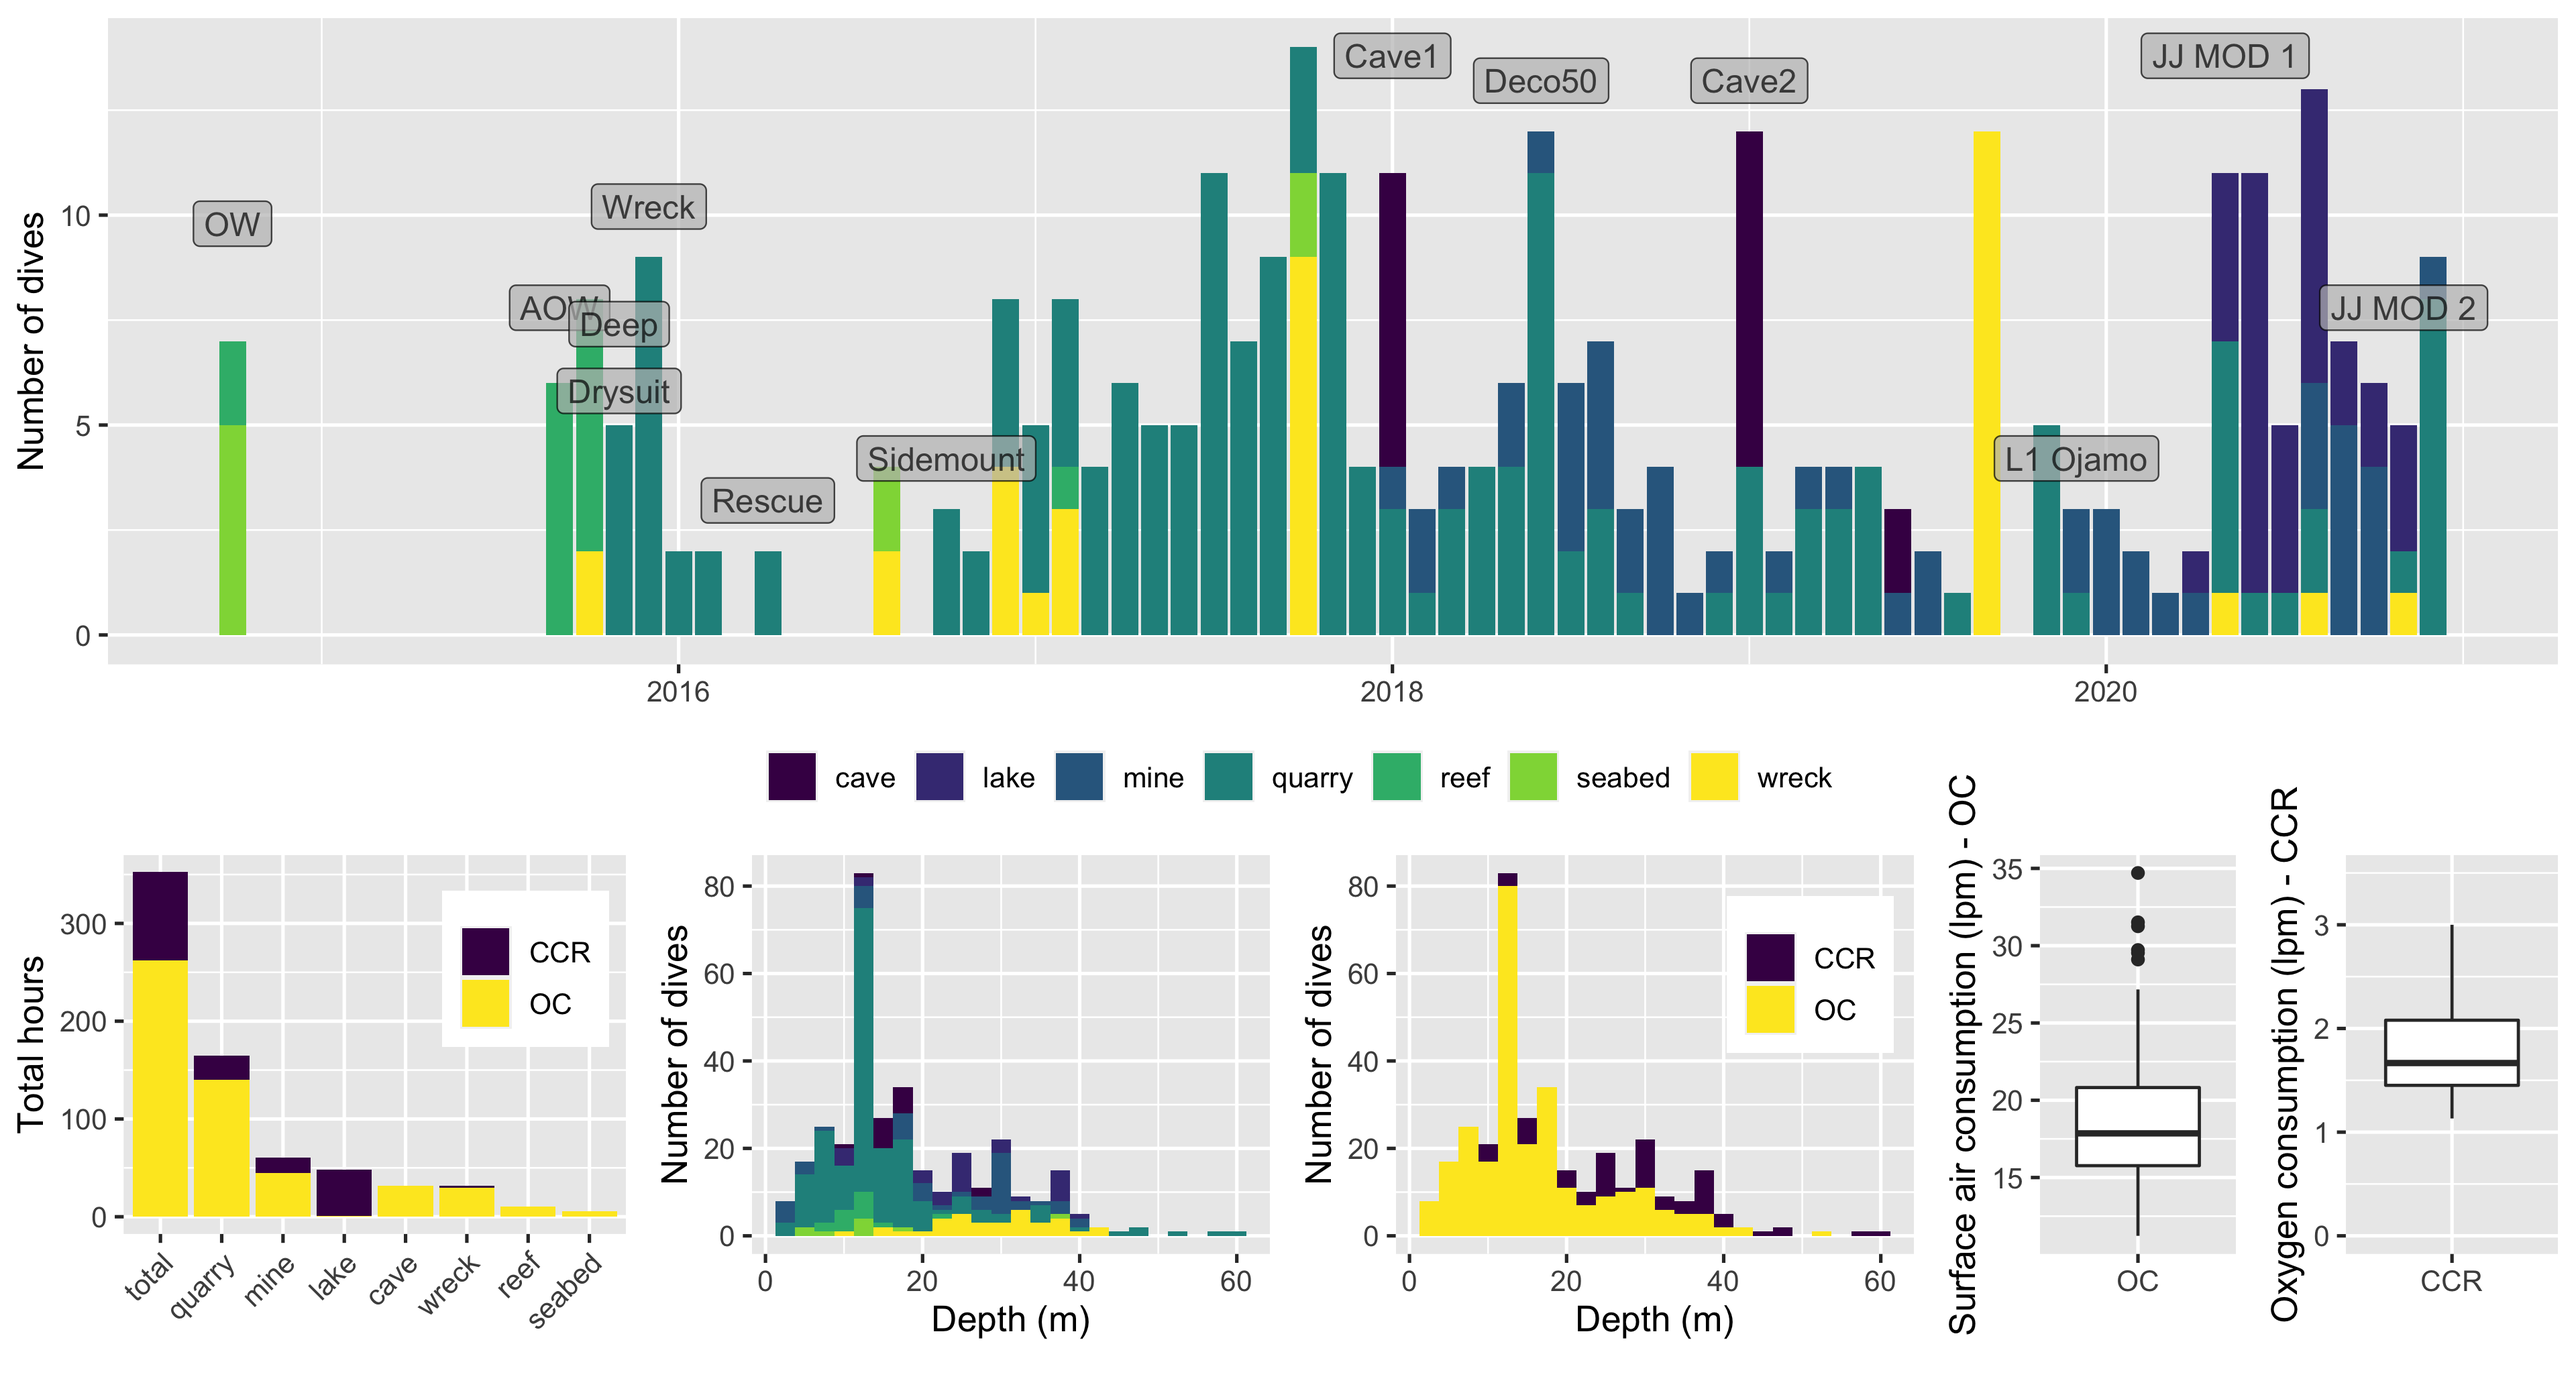
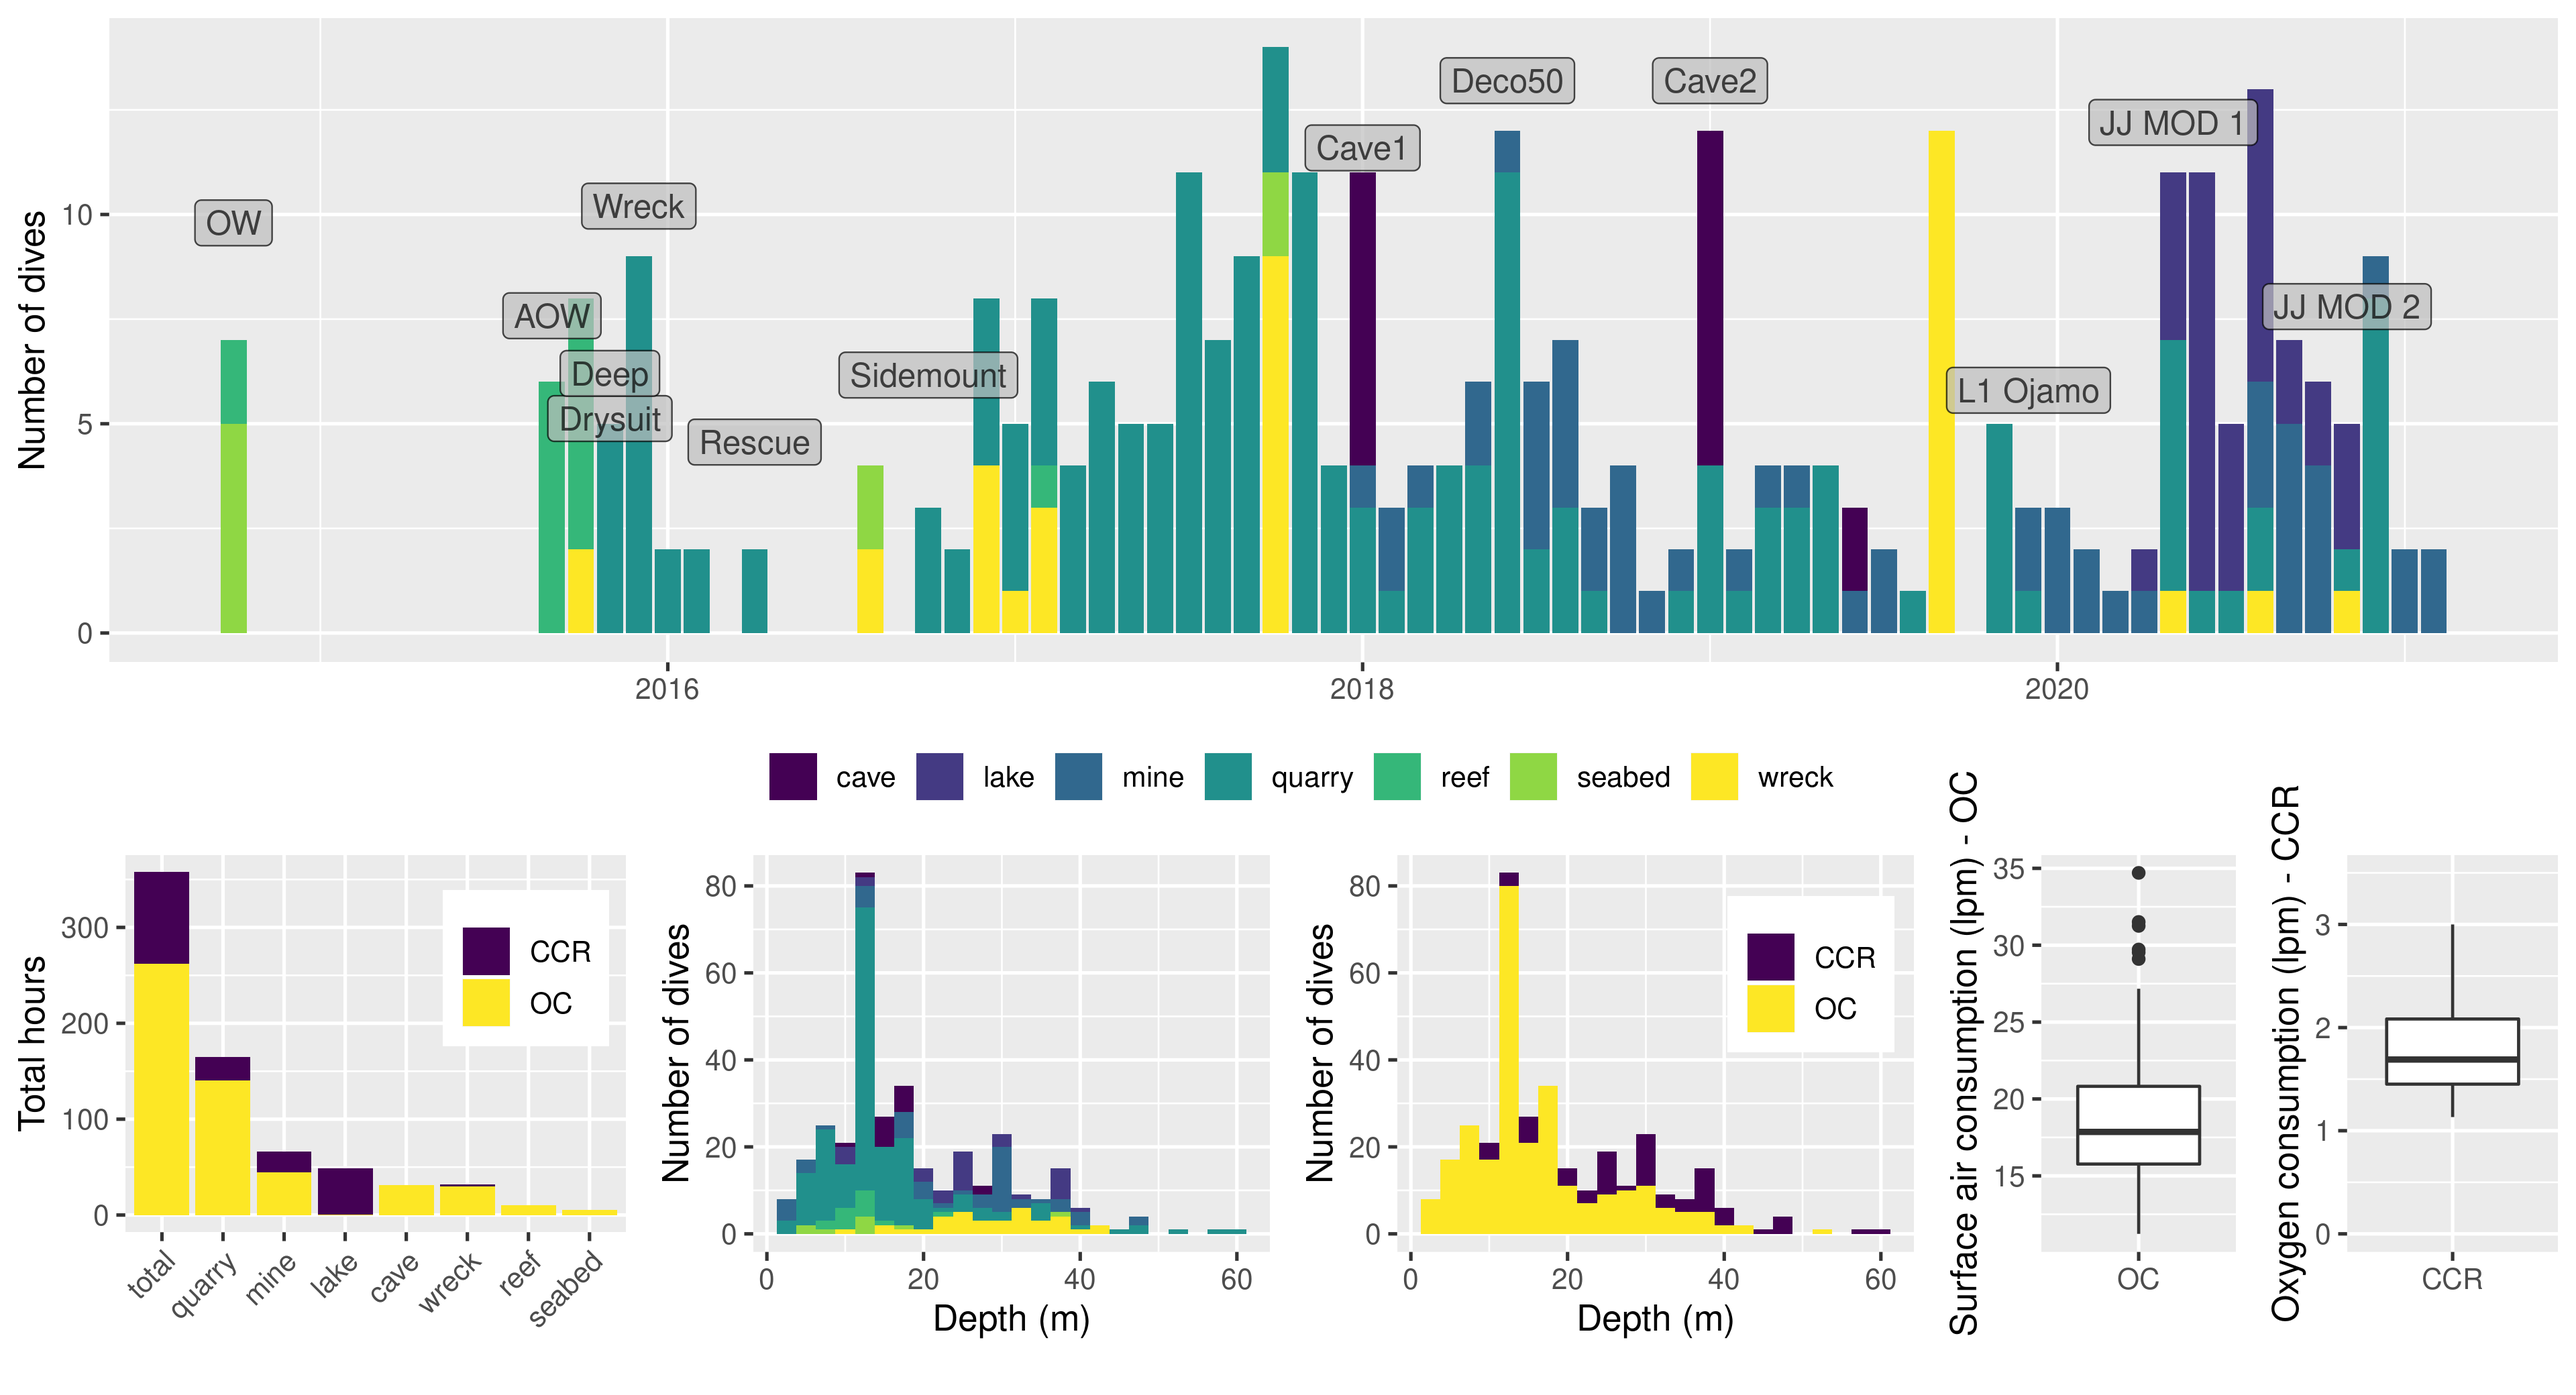
updated with new dive plot

diff --git a/publications.md b/publications.md
@@ -1,11 +1,11 @@
 | paper | cited | year |
 |:---------|:------:|:---------:|
 | **[A Study of Faster-Z Evolution in the Great Tit (Parus major)](https://academic.oup.com/gbe/article-abstract/12/3/210/5771331)**<br>Kai Hayes, **Henry J Barton**, Kai Zeng<br>Genome Biology and Evolution 12(3), 210-222 | 2 | 2020 |
-| **[Noncoding regions underpin avian bill shape diversification at macroevolutionary scales](https://genome.cshlp.org/content/30/4/553.short)**<br>Leeban Yusuf, Matthew C Heatley, Joseph PG Palmer, **Henry J Barton**, Christopher R Cooney, Toni I Gossmann<br>Genome Research 30(4), 553-565 | 0 | 2020 |
+| **[Noncoding regions underpin avian bill shape diversification at macroevolutionary scales](https://genome.cshlp.org/content/30/4/553.short)**<br>Leeban Yusuf, Matthew C Heatley, Joseph PG Palmer, **Henry J Barton**, Christopher R Cooney, Toni I Gossmann<br>Genome Research 30(4), 553-565 | 1 | 2020 |
 | **[Genetic drift dominates genome-wide regulatory evolution following an ancient whole genome duplication in Atlantic salmon](https://www.biorxiv.org/content/10.1101/2020.11.20.389684v1.abstract)**<br>Jukka-Pekka Verta, **Henry J Barton**, Victoria Pritchard, Craig R Primmer<br>bioRxiv NA(NA), NA | 0 | 2020 |
-| **[Population-Specific Selection on Standing Variation Generated by Lateral Gene Transfers in a Grass](https://www.sciencedirect.com/science/article/pii/S0960982219311856)**<br>Jill K Olofsson, Luke T Dunning, Marjorie R Lundgren, **Henry J Barton**, John Thompson, Nicholas Cuff, Menaka Ariyarathne, Deepthi Yakandawala, Graciela Sotelo, Kai Zeng, Colin P Osborne, Patrik Nosil, Pascal-Antoine Christin<br>Current Biology 29(22), 3921-3927. e5 | 6 | 2019 |
+| **[Population-Specific Selection on Standing Variation Generated by Lateral Gene Transfers in a Grass](https://www.sciencedirect.com/science/article/pii/S0960982219311856)**<br>Jill K Olofsson, Luke T Dunning, Marjorie R Lundgren, **Henry J Barton**, John Thompson, Nicholas Cuff, Menaka Ariyarathne, Deepthi Yakandawala, Graciela Sotelo, Kai Zeng, Colin P Osborne, Patrik Nosil, Pascal-Antoine Christin<br>Current Biology 29(22), 3921-3927. e5 | 7 | 2019 |
 | **[Methods for estimating demography and detecting between-locus differences in the effective population size and mutation rate](https://academic.oup.com/mbe/article-abstract/36/2/423/5182503)**<br>Kai Zeng, Benjamin C Jackson, **Henry J Barton**<br>Molecular biology and evolution 36(2), 423-433 | 4 | 2019 |
 | **[The impact of natural selection on short insertion and deletion variation in the great tit genome](https://academic.oup.com/gbe/article-abstract/11/6/1514/5423187)**<br>**Henry J Barton**, Kai Zeng<br>Genome biology and evolution 11(6), 1514-1524 | 2 | 2019 |
-| **[A high‐density SNP chip for genotyping great tit (Parus major) populations and its application to studying the genetic architecture of exploration behaviour](https://onlinelibrary.wiley.com/doi/abs/10.1111/1755-0998.12778)**<br>J‐M Kim, AW Santure, **Henry J Barton**, JL Quinn, Eleanor F Cole, Great Tit HapMap Consortium, ME Visser, BC Sheldon, MAM Groenen, K van Oers, J Slate<br>Molecular ecology resources 18(4), 877-891 | 22 | 2018 |
+| **[A high‐density SNP chip for genotyping great tit (Parus major) populations and its application to studying the genetic architecture of exploration behaviour](https://onlinelibrary.wiley.com/doi/abs/10.1111/1755-0998.12778)**<br>J‐M Kim, AW Santure, **Henry J Barton**, JL Quinn, Eleanor F Cole, Great Tit HapMap Consortium, ME Visser, BC Sheldon, MAM Groenen, K van Oers, J Slate<br>Molecular ecology resources 18(4), 877-891 | 24 | 2018 |
 | **[New methods for inferring the distribution of fitness effects for INDELs and SNPs](https://academic.oup.com/mbe/article-abstract/35/6/1536/4960016)**<br>**Henry J Barton**, Kai Zeng<br>Molecular biology and evolution 35(6), 1536-1546 | 14 | 2018 |
-| **[Determinants of the efficacy of natural selection on coding and noncoding variability in two passerine species](https://academic.oup.com/gbe/article-abstract/9/11/2987/4555532)**<br>Pádraic Corcoran, Toni I Gossmann, **Henry J Barton**, Great Tit HapMap Consortium, Jon Slate, Kai Zeng<br>Genome Biology and Evolution 9(11), 2987-3007 | 22 | 2017 |
+| **[Determinants of the efficacy of natural selection on coding and noncoding variability in two passerine species](https://academic.oup.com/gbe/article-abstract/9/11/2987/4555532)**<br>Pádraic Corcoran, Toni I Gossmann, **Henry J Barton**, Great Tit HapMap Consortium, Jon Slate, Kai Zeng<br>Genome Biology and Evolution 9(11), 2987-3007 | 23 | 2017 |

diff --git a/dive.md b/dive.md
@@ -10,6 +10,8 @@ by all, they sparked my interest in cave diving, and led to me signing up for my
 working towards more technical diving. Something that is still a work in progress and illustrated in the figure
 below. 
 
+![](dive_data/year_summary.png)
+
 ![](dive_data/dive_summaries.png)
 
 
